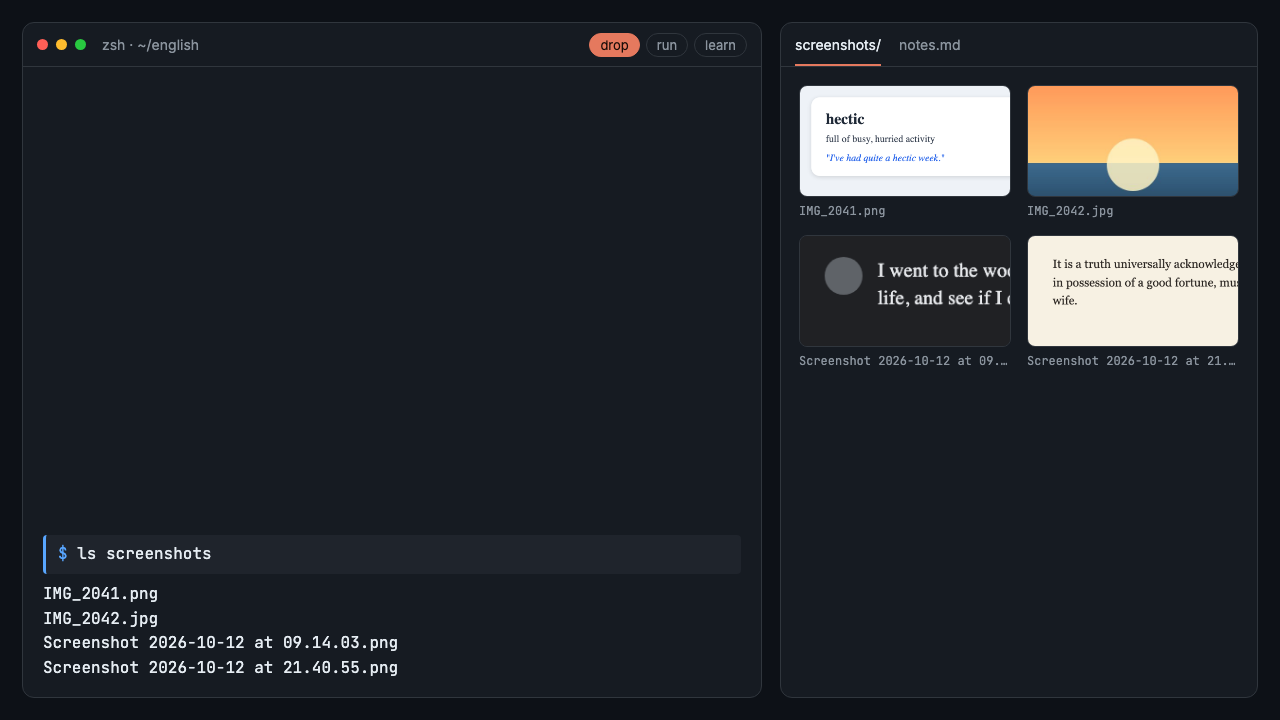
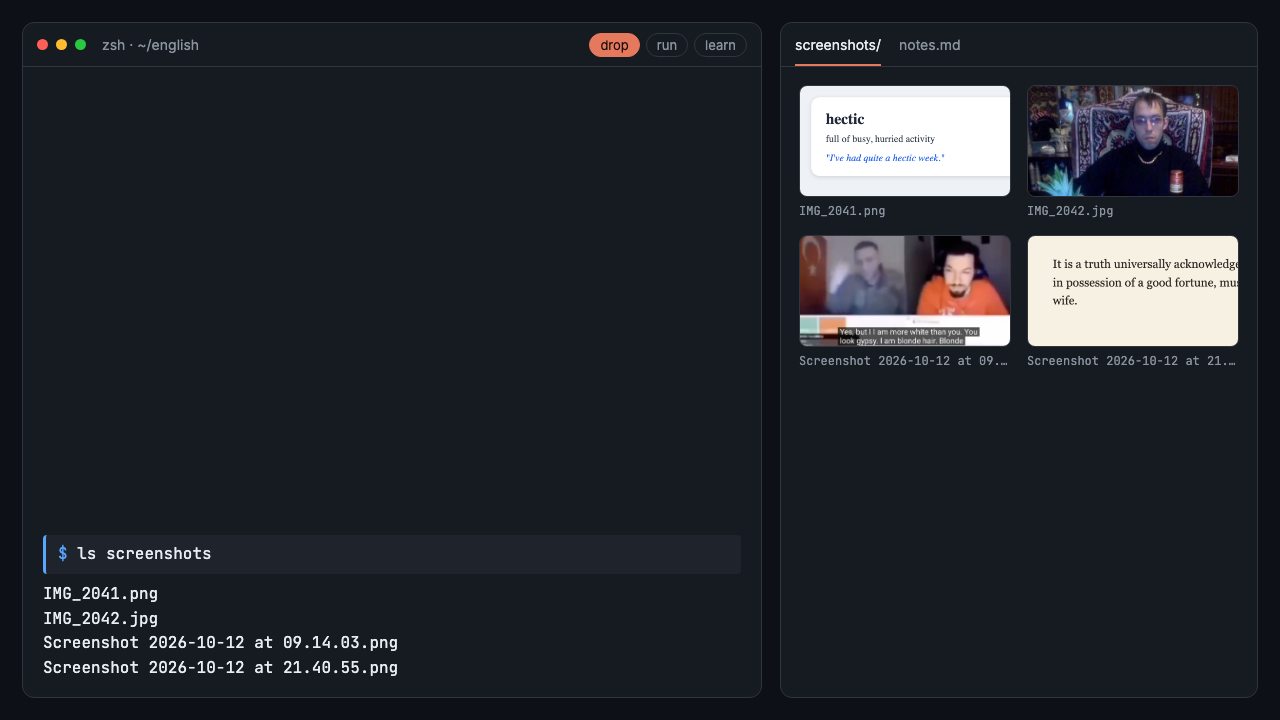
Swap two example screenshots for real-world ones
A video-call caption replaces the book-club chat, and a photo with no
English text replaces the sunset. examples/notes.md, the OCR test and every
README picture are regenerated from them.

Changed region(s): [[0.625, 0.3056, 0.8125, 0.4889], [0.7812, 0.1222, 0.9688, 0.275]]

diff --git a/demo/src/Banner.tsx b/demo/src/Banner.tsx
@@ -76,10 +76,10 @@ const Dimension: React.FC<{ x: number; y1: number; y2: number; label: string }> 
 /** The right-hand "drawing": four screenshots in, one Markdown sheet out. */
 const Drawing: React.FC = () => {
   const prints = [
-    { src: screenshots[1], left: 64, top: 44, width: 250, rotate: -4 },
-    { src: screenshots[2], left: 210, top: 70, width: 210, rotate: 3 },
-    { src: screenshots[0], left: 34, top: 150, width: 330, rotate: -1.5 },
-    { src: screenshots[3], left: 330, top: 150, width: 100, rotate: 6 },
+    { src: screenshots[1], left: 56, top: 40, width: 240, rotate: -4 },
+    { src: screenshots[2], left: 250, top: 48, width: 190, rotate: 3 },
+    { src: screenshots[0], left: 34, top: 116, width: 236, rotate: -2 },
+    { src: screenshots[3], left: 296, top: 132, width: 128, rotate: 5 },
   ];
   return (
     <div style={{ position: "absolute", left: 790, top: 0, width: 470, height: 640 }}>
@@ -107,14 +107,14 @@ const Drawing: React.FC = () => {
           />
         </div>
       ))}
-      <Dimension x={14} y1={44} y2={215} label="4 files" />
+      <Dimension x={14} y1={40} y2={250} label="4 files" />
 
       {/* OCR leader line */}
-      <div style={{ position: "absolute", left: 230, top: 236, width: 1, height: 82, borderLeft: `1px dashed ${ink}` }} />
+      <div style={{ position: "absolute", left: 230, top: 262, width: 1, height: 56, borderLeft: `1px dashed ${ink}` }} />
       <svg width={14} height={10} style={{ position: "absolute", left: 223.5, top: 316 }}>
         <path d="M0 0 L7 10 L14 0" fill="none" stroke={ink} />
       </svg>
-      <div style={{ position: "absolute", left: 246, top: 258, fontFamily: geistMono, fontSize: 12, color: ink, lineHeight: 1.5 }}>
+      <div style={{ position: "absolute", left: 246, top: 268, fontFamily: geistMono, fontSize: 12, color: ink, lineHeight: 1.5 }}>
         $ pic2text
         <br />
         <span style={{ color: pencil }}>OCR on CPU, offline</span>

diff --git a/demo/src/theme.ts b/demo/src/theme.ts
@@ -21,7 +21,7 @@ export const ui = {
 // Copied verbatim from examples/notes.md (real pic2text output).
 export const notes = [
   'hectic full of busy, hurried activity "I\'ve had quite a hectic week."',
-  "I went to the woods because I wished to live deliberately, to front only the essential facts of life, and see if I could not learn what it had to teach.",
+  "Yes, but I I am more white than you. You look gypsy. I am blonde hair. Blonde",
   "It is a truth universally acknowledged, that a single man in possession of a good fortune, must be in want of a wife.",
 ];
 

diff --git a/tests/test_ocr.py b/tests/test_ocr.py
@@ -36,7 +36,7 @@ def test_reads_the_example_screenshots():
     engine = RapidEngine()
 
     chat = join_lines(engine.read(EXAMPLES / "Screenshot 2026-10-12 at 09.14.03.png"), 0.75)
-    assert "I went to the woods because I wished to live deliberately" in chat
+    assert chat == "Yes, but I I am more white than you. You look gypsy. I am blonde hair. Blonde"
 
     book = join_lines(engine.read(EXAMPLES / "Screenshot 2026-10-12 at 21.40.55.png"), 0.75)
     assert book.startswith("It is a truth universally acknowledged")

diff --git a/examples/notes.md b/examples/notes.md
@@ -1,6 +1,6 @@
 # Notes
 
 1. [ ] hectic full of busy, hurried activity "I've had quite a hectic week." <!-- pic2text 9a46d1eda214 IMG_2041.png -->
-2. [ ] I went to the woods because I wished to live deliberately, to front only the essential facts of life, and see if I could not learn what it had to teach. <!-- pic2text 761863ec1ed7 Screenshot 2026-10-12 at 09.14.03.png -->
+2. [ ] Yes, but I I am more white than you. You look gypsy. I am blonde hair. Blonde <!-- pic2text ae0ade280303 Screenshot 2026-10-12 at 09.14.03.png -->
 3. [ ] It is a truth universally acknowledged, that a single man in possession of a good fortune, must be in want of a wife. <!-- pic2text d980cde72b8e Screenshot 2026-10-12 at 21.40.55.png -->
-<!-- pic2text 0b342a9f8d2e IMG_2042.jpg: no text -->
+<!-- pic2text e9048faac584 IMG_2042.jpg: no text -->

diff --git a/README.md b/README.md
@@ -62,7 +62,7 @@ The file only ever grows, and the next run continues the numbering from wherever
 
 > :hurtrealbad: Every line has an HTML comment with the fingerprint of its screenshot. You can't see it when the file is rendered, but you can see it in the raw file, so you always know where a phrase came from:
 > ```markdown
-> 2. [ ] I went to the woods because I wished to live deliberately, … <!-- pic2text 761863ec1ed7 Screenshot 2026-10-12 at 09.14.03.png -->
+> 2. [ ] Yes, but I I am more white than you. You look gypsy. I am blonde hair. Blonde <!-- pic2text ae0ade280303 Screenshot 2026-10-12 at 09.14.03.png -->
 > ```
 > Screenshots with no text get a comment-only line, so they aren't read again either. The file that example came from is [`examples/notes.md`](examples/notes.md)
 
